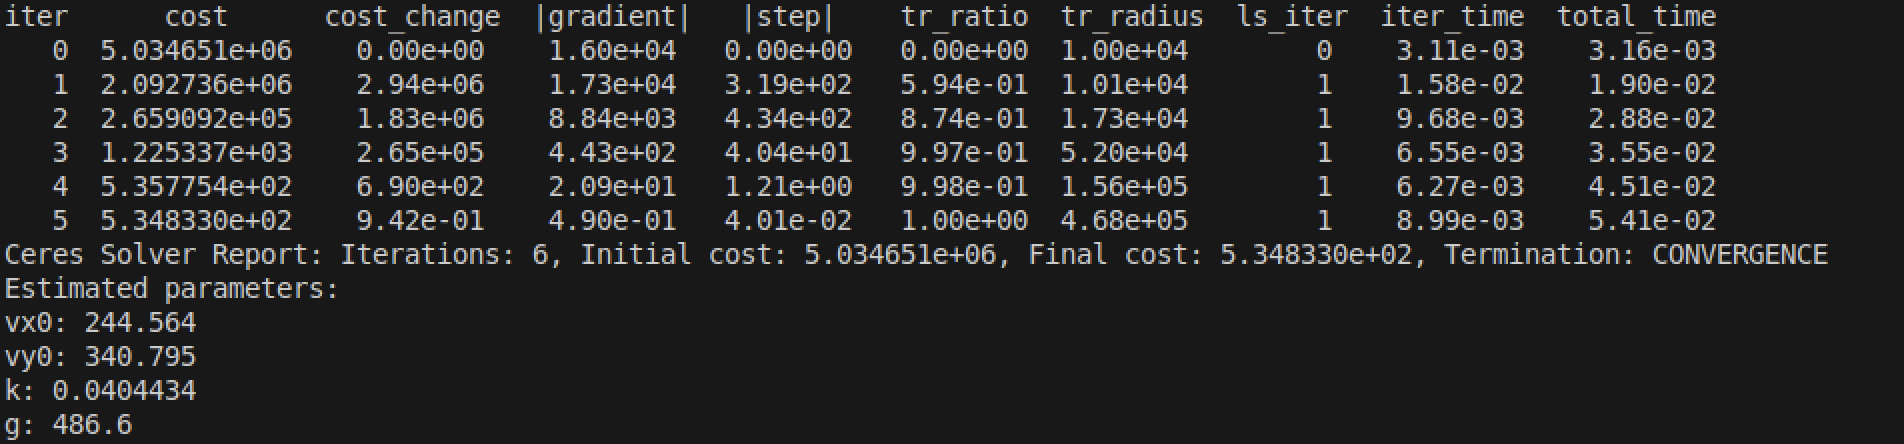
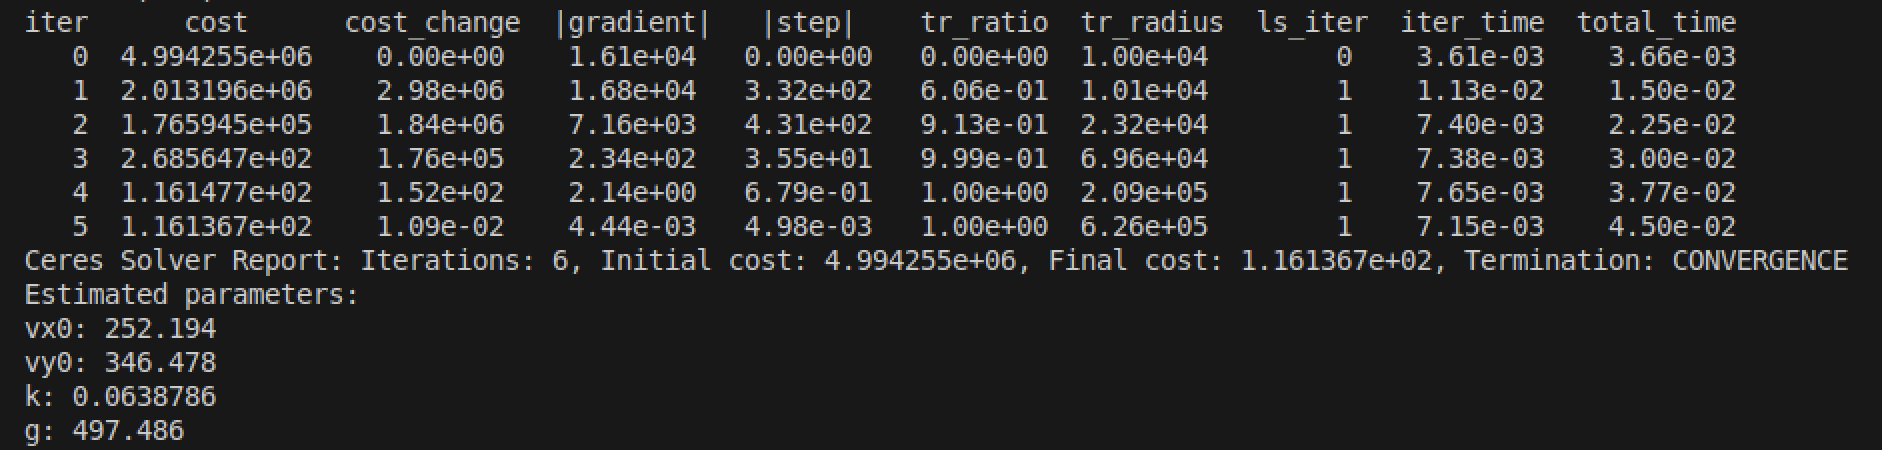
Minor Debug

Changed region(s): [[0.0, 0.0, 0.9862, 0.6734], [0.0, 0.7027, 0.1233, 0.9955]]

diff --git a/src/solver.cpp b/src/solver.cpp
@@ -43,7 +43,7 @@ namespace TASK03
             problem.AddResidualBlock(cf, nullptr, params.v);
         }
         ceres::Solver::Options options;
-        options.max_num_iterations = 500;
+        options.max_num_iterations = 10;
         options.linear_solver_type = ceres::DENSE_QR;
         options.minimizer_progress_to_stdout = true;
 

diff --git a/src/frame_processing.cpp b/src/frame_processing.cpp
@@ -84,7 +84,7 @@ namespace TASK03
         // std::cout << "Total frames: " << frame_count << "\n";
         raw.clear();
         raw.reserve(frame_count);
-        for(int i=1;i<=frame_count;i++)
+        for(int i=0;i<frame_count;i++)
         {
             TASK03::Measurement meas;
             cap>>frame;

diff --git a/README.md b/README.md
@@ -21,10 +21,10 @@ $$
 拟合结果：
 
 ```
-vx0: 244.564
-vy0: 340.795
-k: 0.0404434
-g: 486.6
+vx0: 252.194
+vy0: 346.478
+k: 0.0638786
+g: 497.486
 ```
 
 更多运行结果详见 `outputs/results.txt`
